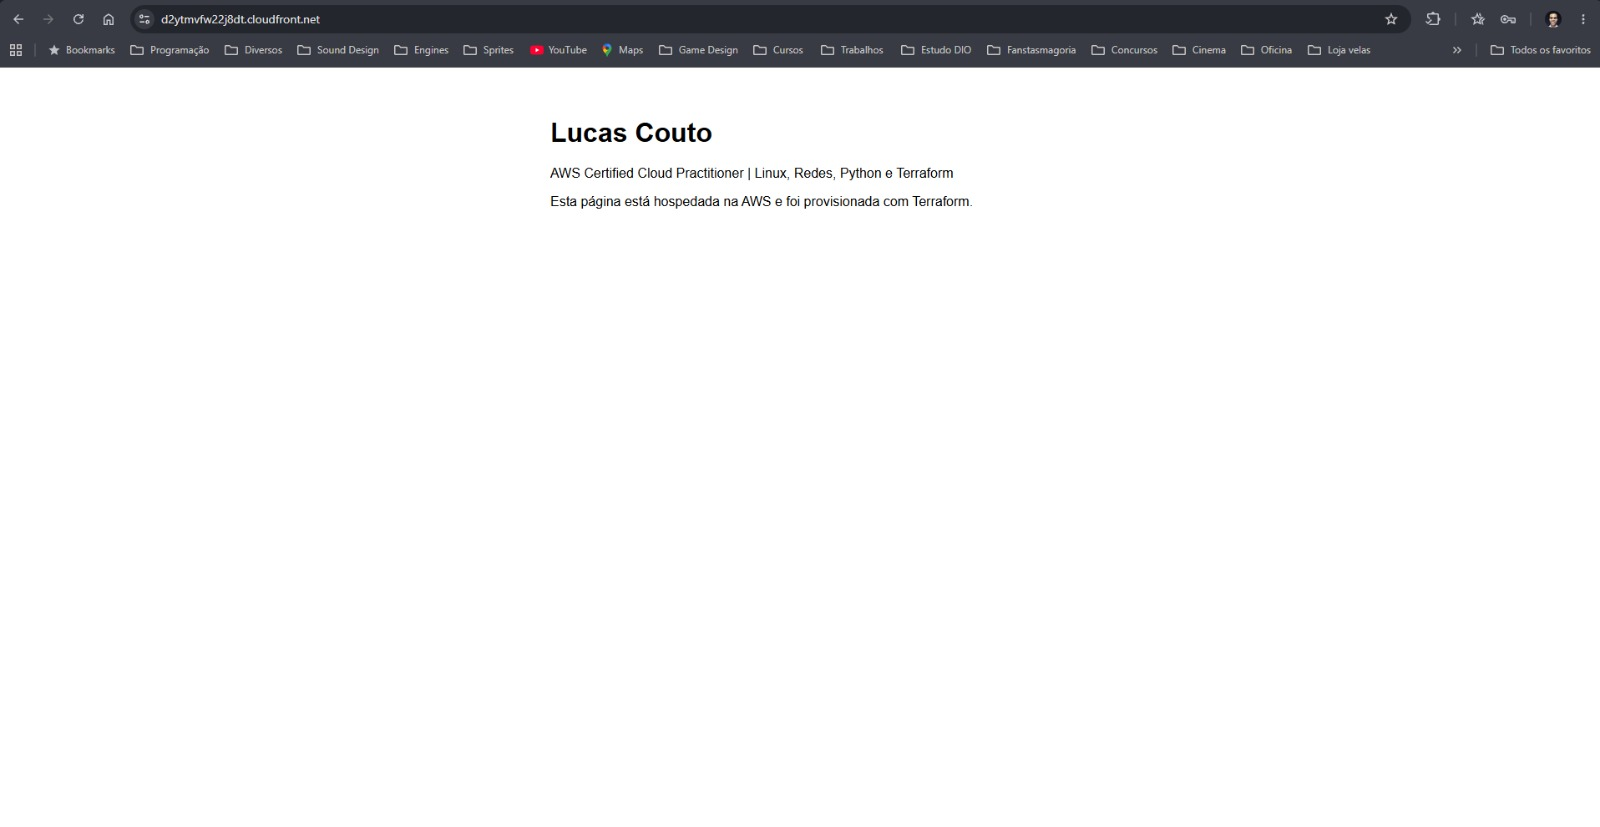
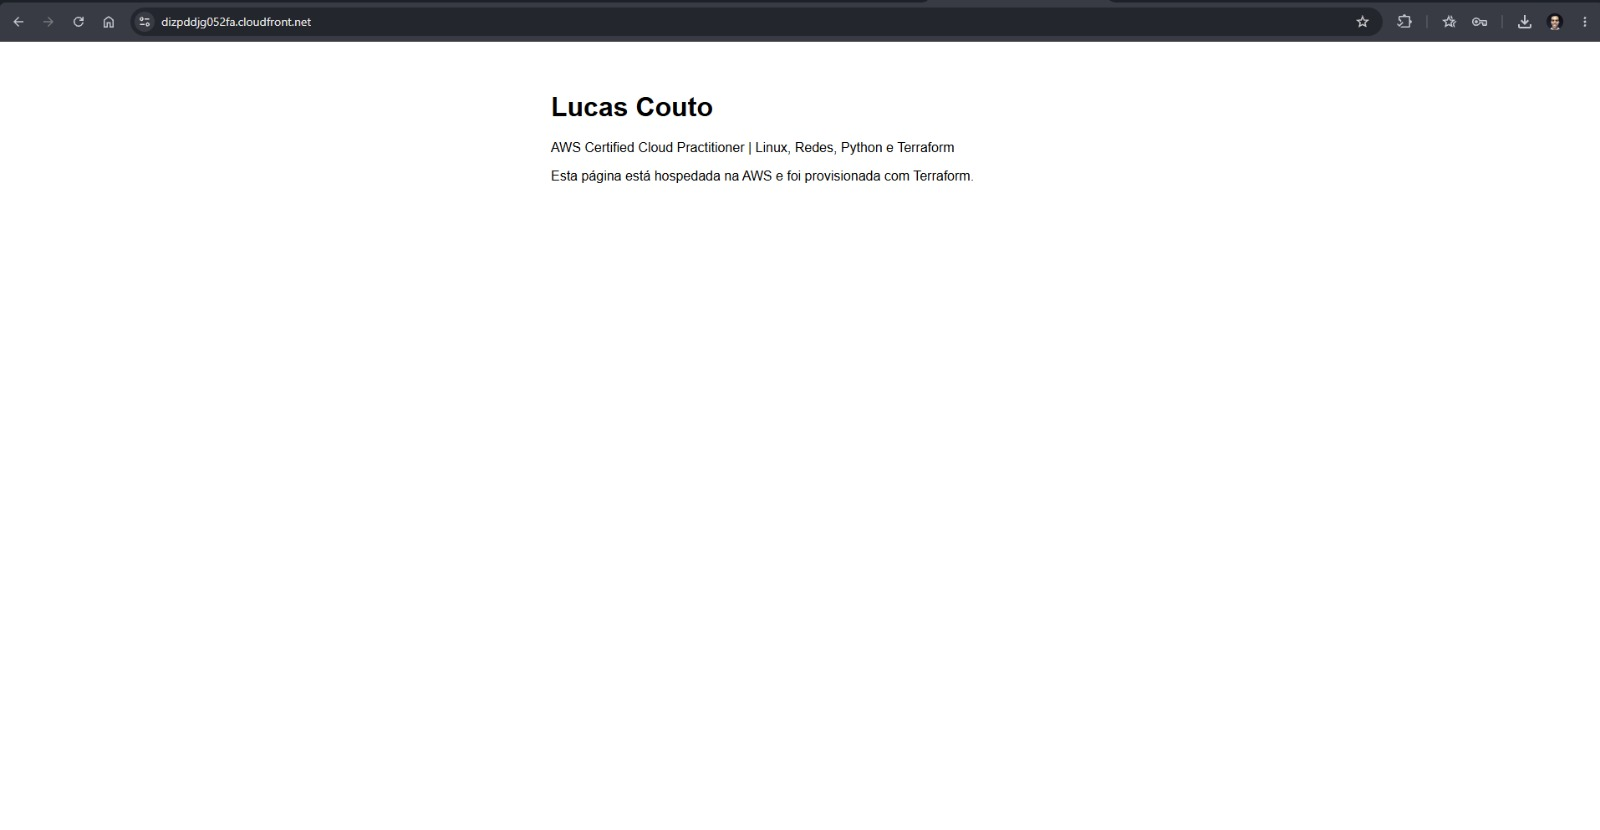
Adiciona evidência de acesso negado ao bucket

Changed region(s): [[0.0, 0.0, 1.0, 0.0907], [0.3438, 0.1209, 0.5938, 0.2721]]

diff --git a/README.md b/README.md
@@ -16,6 +16,14 @@ flowchart LR
 
 O bucket S3 é totalmente privado. Somente a distribuição CloudFront tem permissão de leitura, por meio de Origin Access Control (OAC) e uma bucket policy restrita ao ARN da distribuição. O acesso direto ao bucket retorna `Access Denied`.
 
+## Evidências de segurança
+
+O bucket é privado: o acesso direto ao endereço do S3 é negado, e o conteúdo só é entregue pelo CloudFront.
+
+**Acesso direto ao bucket (bloqueado):**
+
+![Acesso negado ao bucket](docs/acesso-negado-bucket.jpeg)
+
 ## Tecnologias
 
 - AWS: S3, CloudFront, IAM
